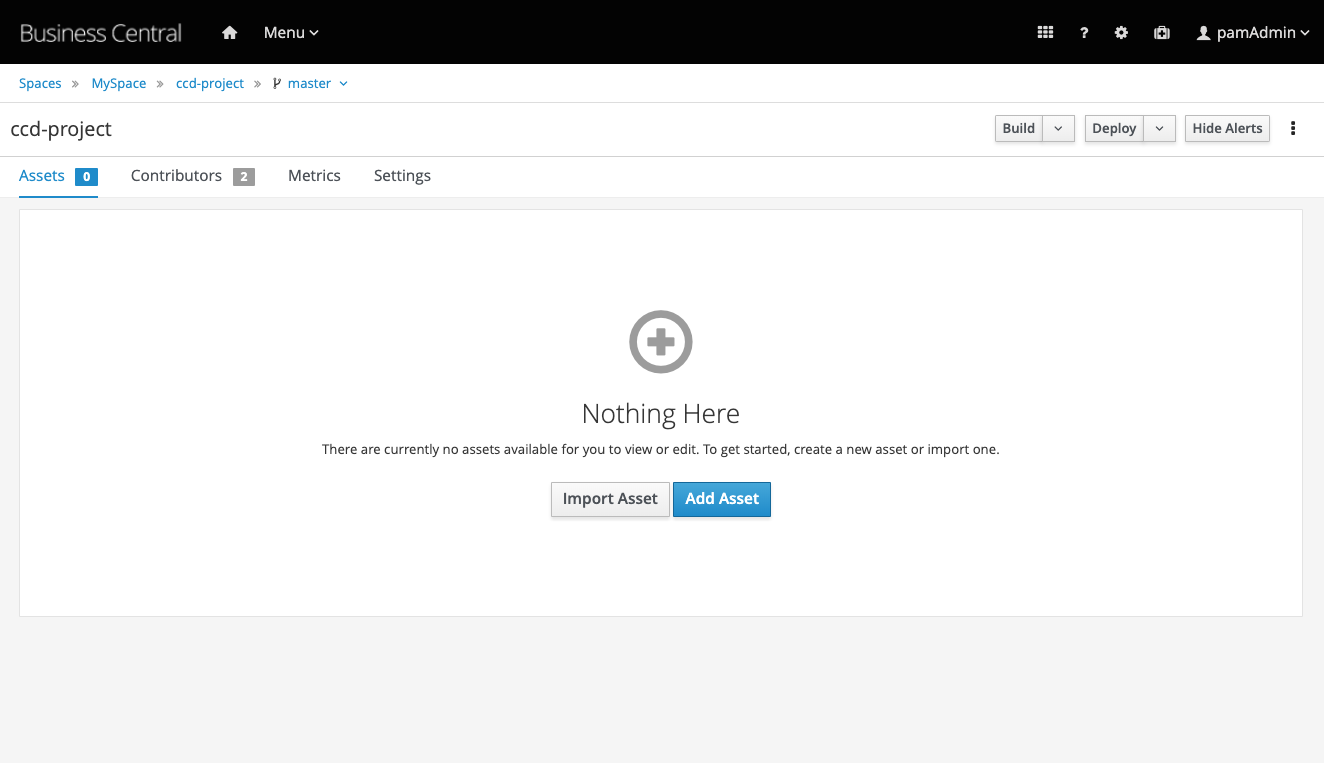
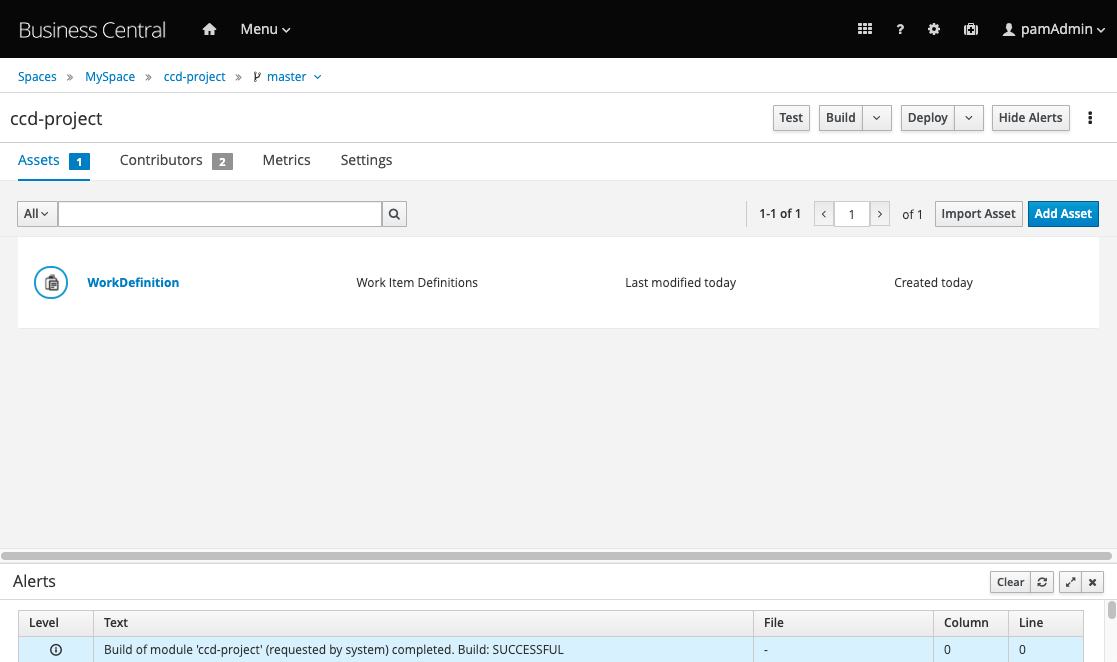
updating image from case project on steop 3

diff --git a/business-model.md b/business-model.md
@@ -52,7 +52,7 @@ So based on this development practice, the first and very important task when au
 
     ![Business Central Asset CCD Project]({% image_path business-central-asset-ccd-project.png %}){:width="600px"}
 
-1. Select the `ccd-project`. You should see the following page with the project content, which, at the moment, is empty.
+1. Select the `ccd-project`. You should see the following page with the project content, which, at the moment, does not have any business asset.
 
     ![Business Central Asset Empty Project]({% image_path business-central-asset-empty-project.png %}){:width="600px"}
 
